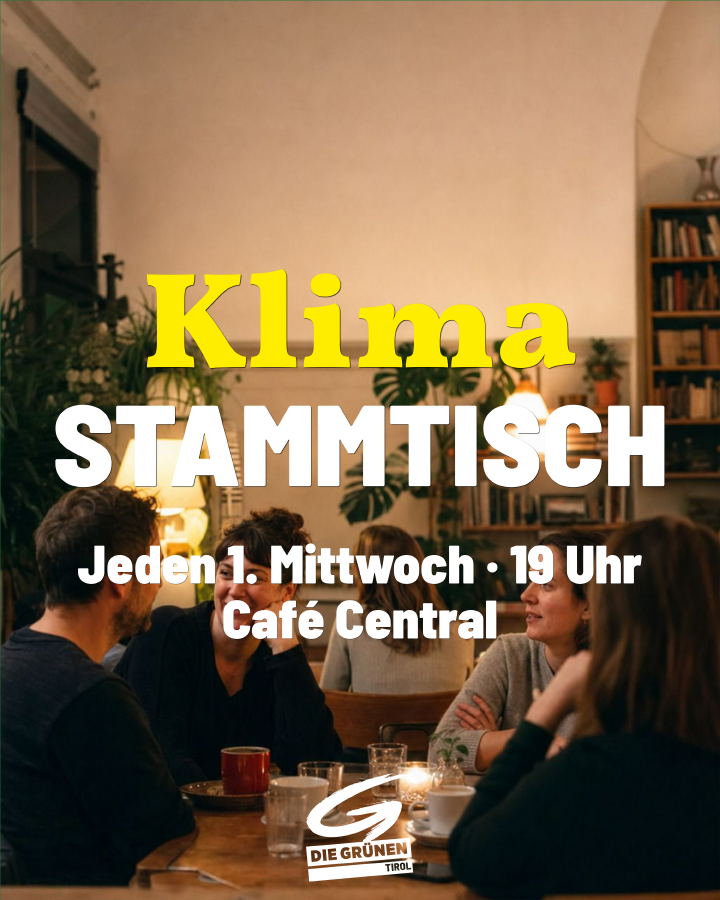
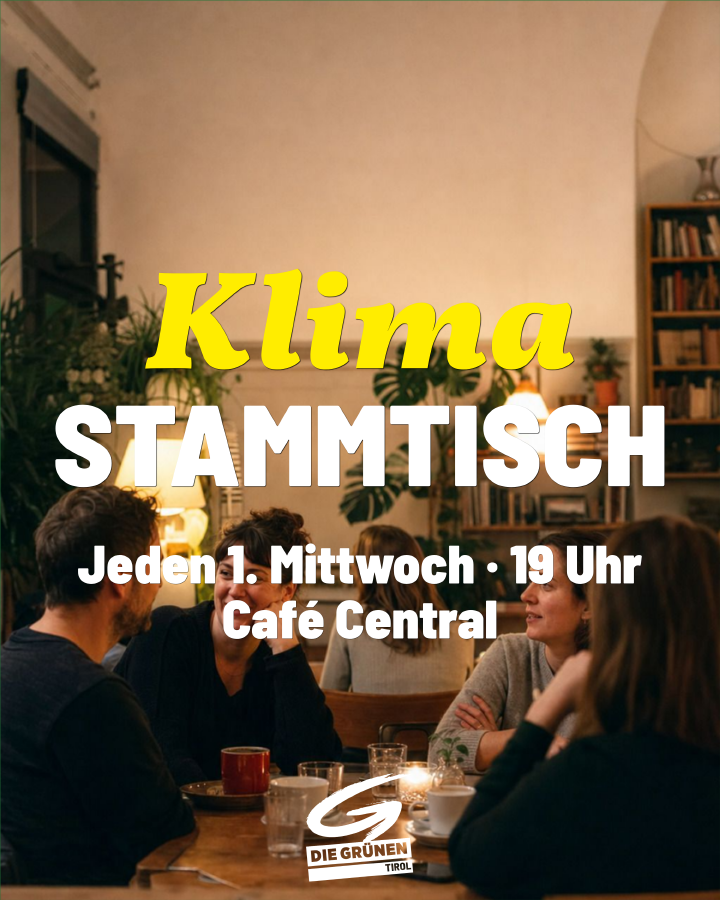
feat(fonts): use Vollkorn Black Italic for the accent serif
The accent text option is the heaviest italic cut of Vollkorn (weight
900, style italic) rather than the upright 900. Request the italic axis
from Google Fonts, mark the preload entry italic, flip the unit-test
assertion, and re-render the accent reference image plus the two example
sharepics that use the accent font. Doc text updated accordingly.

Changed region(s): [[0.2139, 0.28, 0.7944, 0.4356]]

diff --git a/resources/js/constants.js b/resources/js/constants.js
@@ -95,7 +95,7 @@ const AppConstants = {
         // never by brand name. Option ids match #font-style-select values.
         OPTIONS: [
             { id: 'standard', label: 'Standardschrift — Headlines & Fließtext', family: 'Barlow Semi Condensed', weight: 900, style: 'normal' },
-            { id: 'accent',   label: 'Betonte Serifenschrift — für Zitate & Akzente', family: 'Vollkorn', weight: 900, style: 'normal' }
+            { id: 'accent',   label: 'Betonte Serifenschrift — für Zitate & Akzente', family: 'Vollkorn', weight: 900, style: 'italic' }
         ],
         // Each entry carries its own family so the preload observer binds to
         // the correct font. Mixing families under a single observer family
@@ -105,7 +105,7 @@ const AppConstants = {
             { family: 'Barlow Semi Condensed', weight: 900 },                   // default text
             { family: 'Barlow Semi Condensed', weight: 400 },                   // book / body
             { family: 'Barlow Semi Condensed', weight: 800 },                   // default logo
-            { family: 'Vollkorn', weight: 900 },                               // accent serif
+            { family: 'Vollkorn', weight: 900, style: 'italic' },              // accent serif (Black Italic)
             { family: 'Vollkorn', weight: 400 }                                // accent serif (book)
         ]
     },

diff --git a/impressum.html b/impressum.html
@@ -19,8 +19,8 @@
     <link rel="preconnect" href="https://fonts.googleapis.com" />
     <link rel="preconnect" href="https://fonts.gstatic.com" crossorigin />
     <link rel="stylesheet" href="https://fonts.googleapis.com/css2?family=Barlow+Semi+Condensed:ital,wght@0,400;0,600;0,700;0,800;0,900;1,400;1,900&display=swap" />
-    <!-- Vollkorn (betonte Serifenschrift, via Google Fonts) -->
-    <link rel="stylesheet" href="https://fonts.googleapis.com/css2?family=Vollkorn:wght@400;900&display=swap" />
+    <!-- Vollkorn (betonte Serifenschrift, via Google Fonts; Akzent = Black Italic) -->
+    <link rel="stylesheet" href="https://fonts.googleapis.com/css2?family=Vollkorn:ital,wght@0,400;1,900&display=swap" />
     <link rel="stylesheet" href="vendors/fontawesome/css/all.css" />
     <link rel="stylesheet" href="https://grueneat.github.io/design-system/design-system.css" />
     <link rel="stylesheet" href="resources/css/output.css?v=1.5" />

diff --git a/index.html b/index.html
@@ -23,8 +23,8 @@
     <link rel="preconnect" href="https://fonts.googleapis.com" />
     <link rel="preconnect" href="https://fonts.gstatic.com" crossorigin />
     <link rel="stylesheet" href="https://fonts.googleapis.com/css2?family=Barlow+Semi+Condensed:ital,wght@0,400;0,600;0,700;0,800;0,900;1,400;1,900&display=swap" />
-    <!-- Vollkorn (betonte Serifenschrift, via Google Fonts) -->
-    <link rel="stylesheet" href="https://fonts.googleapis.com/css2?family=Vollkorn:wght@400;900&display=swap" />
+    <!-- Vollkorn (betonte Serifenschrift, via Google Fonts; Akzent = Black Italic) -->
+    <link rel="stylesheet" href="https://fonts.googleapis.com/css2?family=Vollkorn:ital,wght@0,400;1,900&display=swap" />
     <!-- Fontawesome -->
     <link rel="stylesheet" href="vendors/fontawesome/css/all.css" />
     <!-- Gruene Design System -->

diff --git a/tests/unit/font-options.test.js b/tests/unit/font-options.test.js
@@ -36,11 +36,11 @@ describe('AppConstants.FONTS.OPTIONS', () => {
     expect(opt.style).toBe('normal');
   });
 
-  it('resolves the accent option to Vollkorn 900 upright (no italic)', () => {
+  it('resolves the accent option to Vollkorn 900 italic (Black Italic)', () => {
     const opt = lookup('accent');
     expect(opt.family).toBe('Vollkorn');
     expect(opt.weight).toBe(900);
-    expect(opt.style).toBe('normal');
+    expect(opt.style).toBe('italic');
   });
 
   it('keeps DEFAULT_TEXT in sync with the standard option family', () => {

diff --git a/schriften.html b/schriften.html
@@ -154,8 +154,9 @@
 
       <p class="gat-fliesstext">
         Die <em class="gat-emphasis">betonte Serifenschrift</em> (technisch:
-        Vollkorn) bringt einen wärmeren, persönlicheren Ton. Sie eignet sich für
-        Zitate und einzelne hervorgehobene Wörter — nicht für ganze Textblöcke.
+        Vollkorn Black Italic) bringt einen wärmeren, persönlicheren Ton. Sie
+        eignet sich für Zitate und einzelne hervorgehobene Wörter — nicht für
+        ganze Textblöcke.
       </p>
 
       <div class="gat-grid">

diff --git a/CLAUDE.md b/CLAUDE.md
@@ -113,7 +113,8 @@ The application supports multiple image formats defined in `TemplateConstants.TE
 - Border control (0 = full-bleed, 10-20 = green border in pixels)
 - Text font is user-selectable via a descriptive 2-option picker (labelled by
   type/use, not brand name): standard = Barlow Semi Condensed (weight 900,
-  upright; default), accent serif = Vollkorn (weight 900, upright). Both are
+  upright; default), accent serif = Vollkorn (weight 900, italic — "Black
+  Italic"). Both are
   loaded via the Google Fonts CDN. See `schriften.html` for the examples page
   explaining which font for what.
 - Text color options: Gelb (Yellow), Weiß (White)
